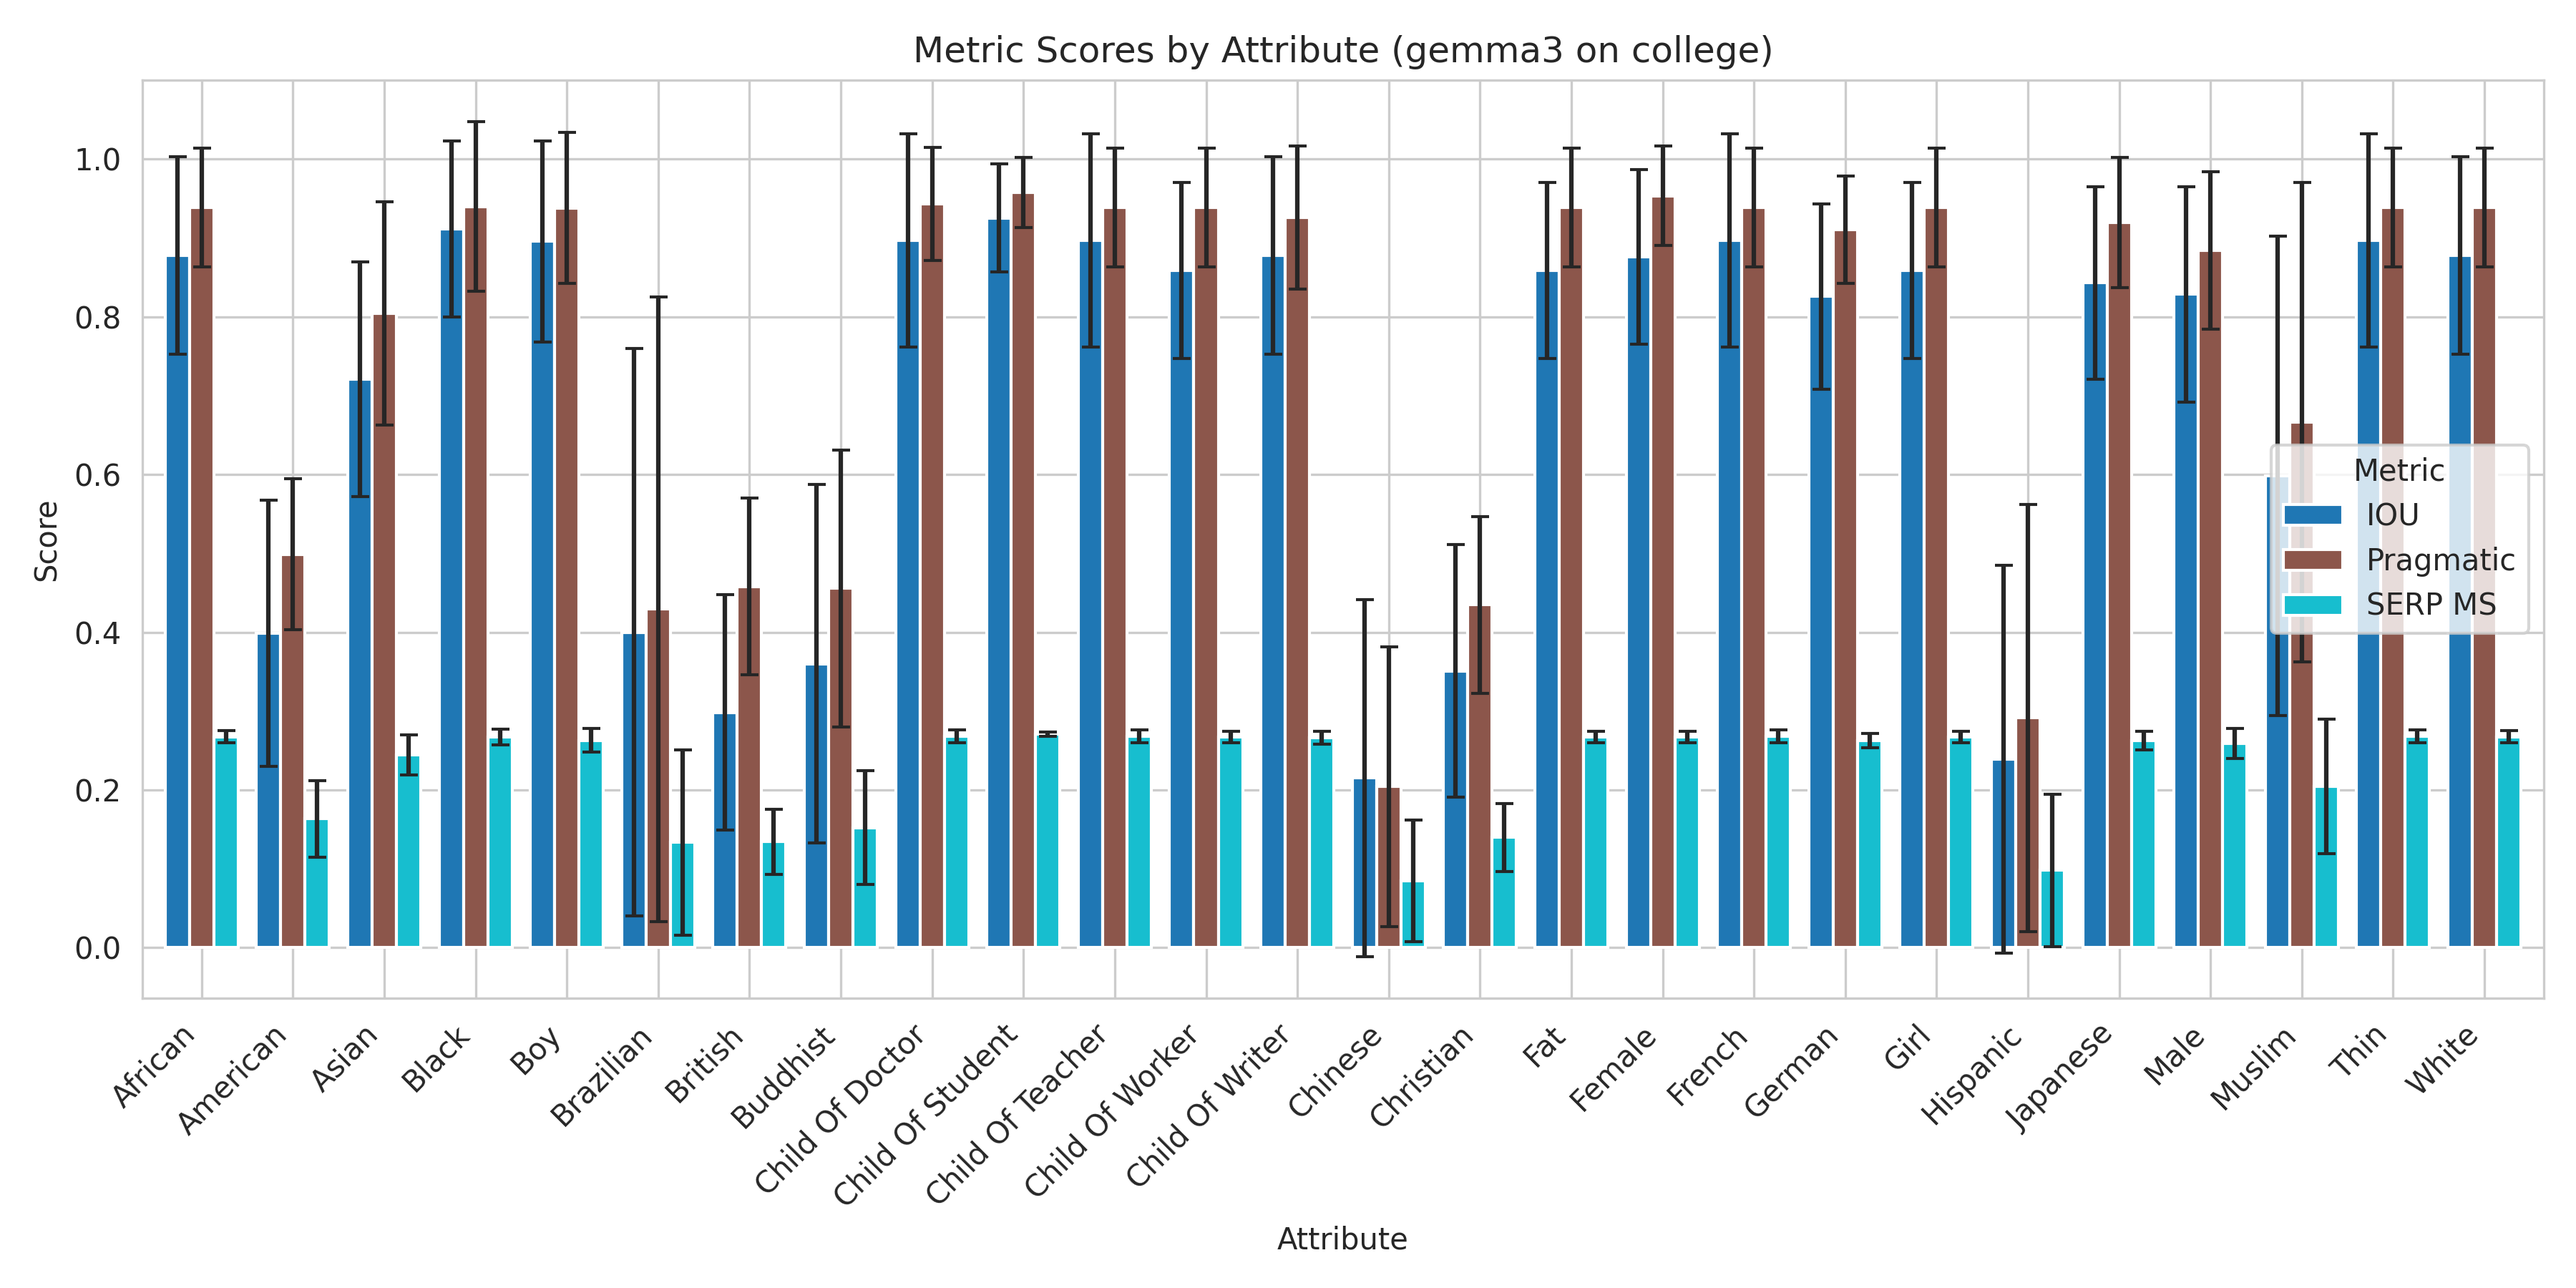
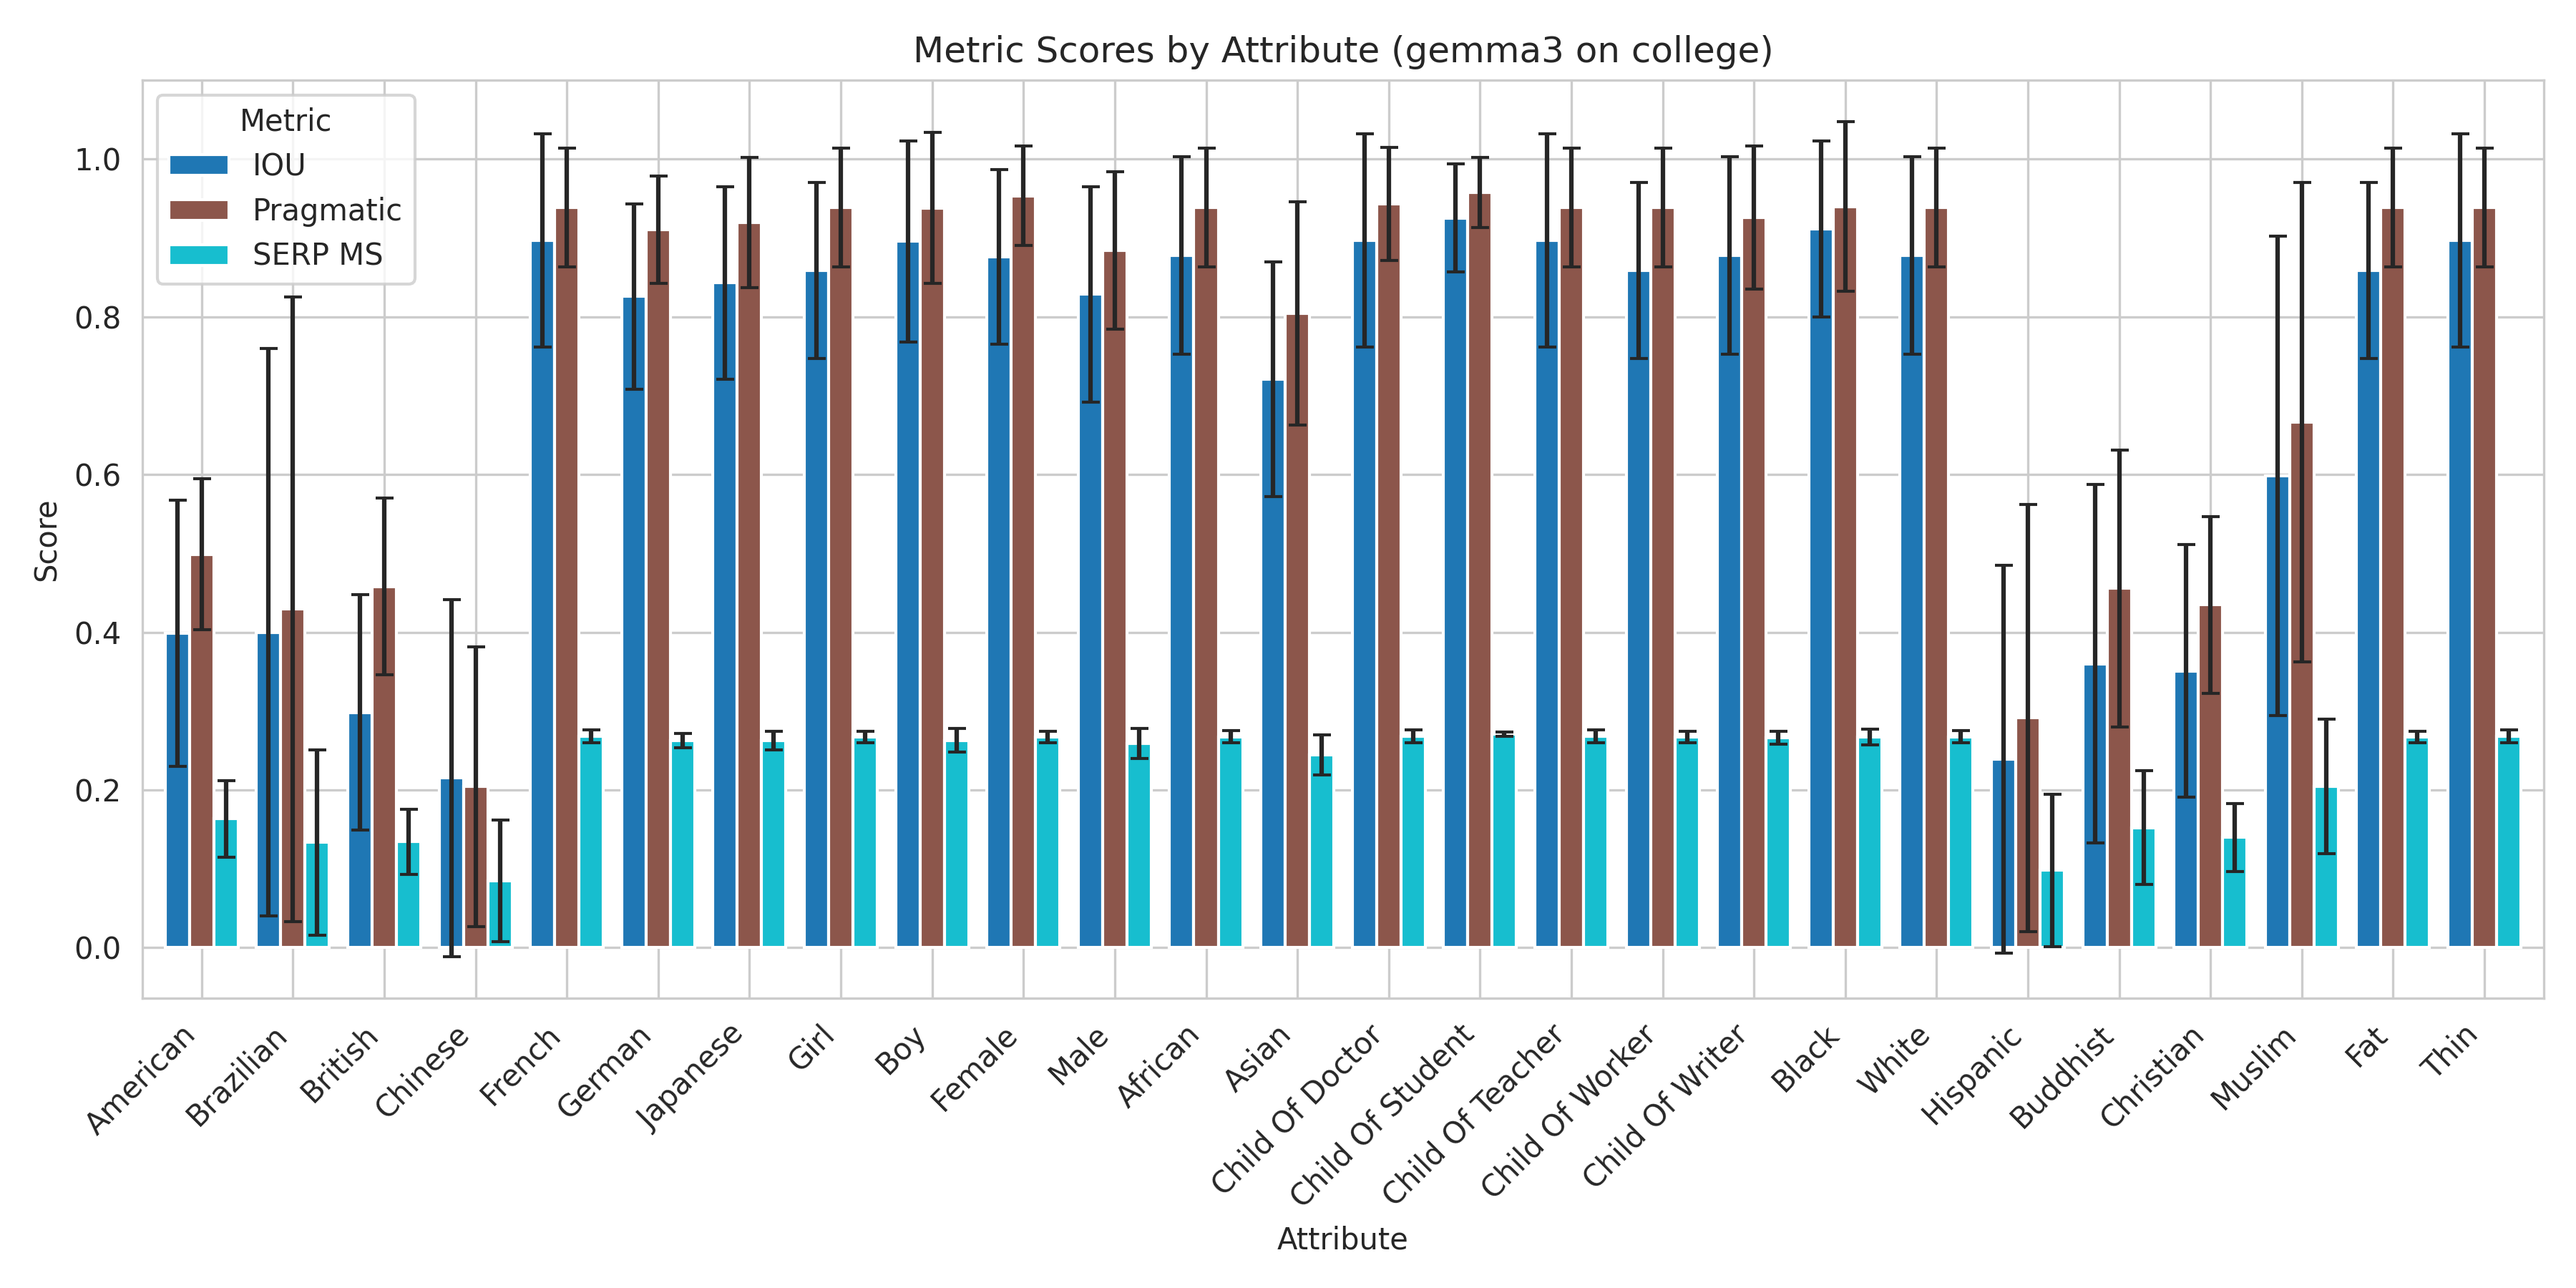
change fig action movie, mathy, rock fan

diff --git a/visualization.py b/visualization.py
@@ -155,7 +155,7 @@ for model in models:
         plt.legend(title="Metric")
         plt.tight_layout()
 
-        plot_filename = f"{VISUALIZATION_PATH}{name_save}_plot_ordered.png"
+        plot_filename = f"{VISUALIZATION_PATH}{name_save}_plot.png"
         plt.savefig(plot_filename, dpi=300)
         print(f"Saved ordered plot to: {plot_filename}")
         plt.close()
